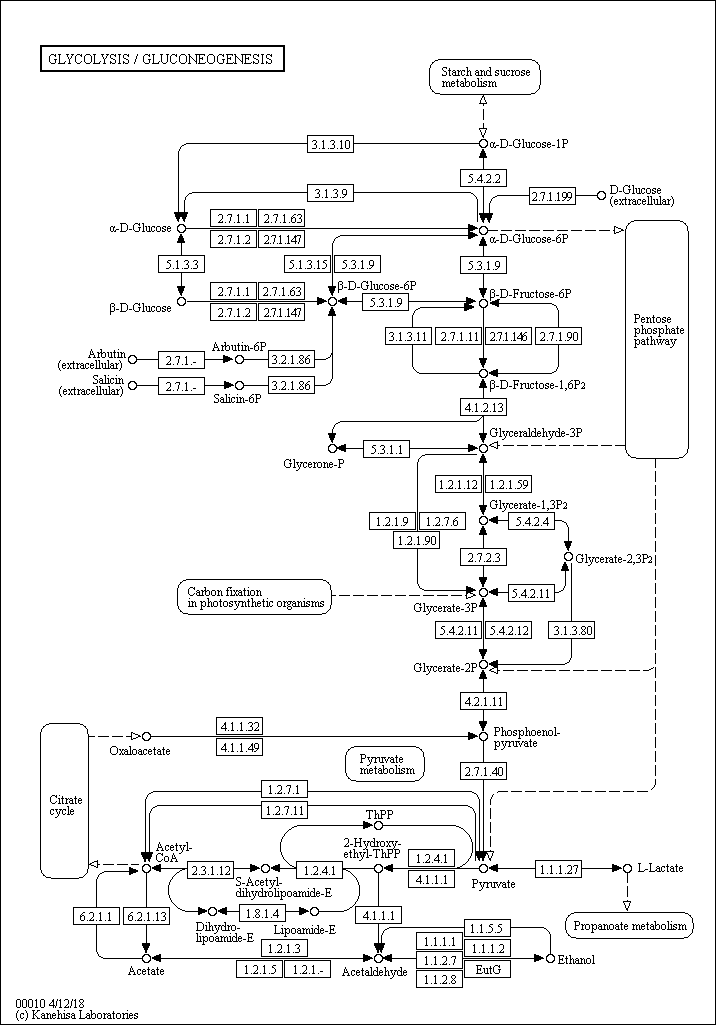
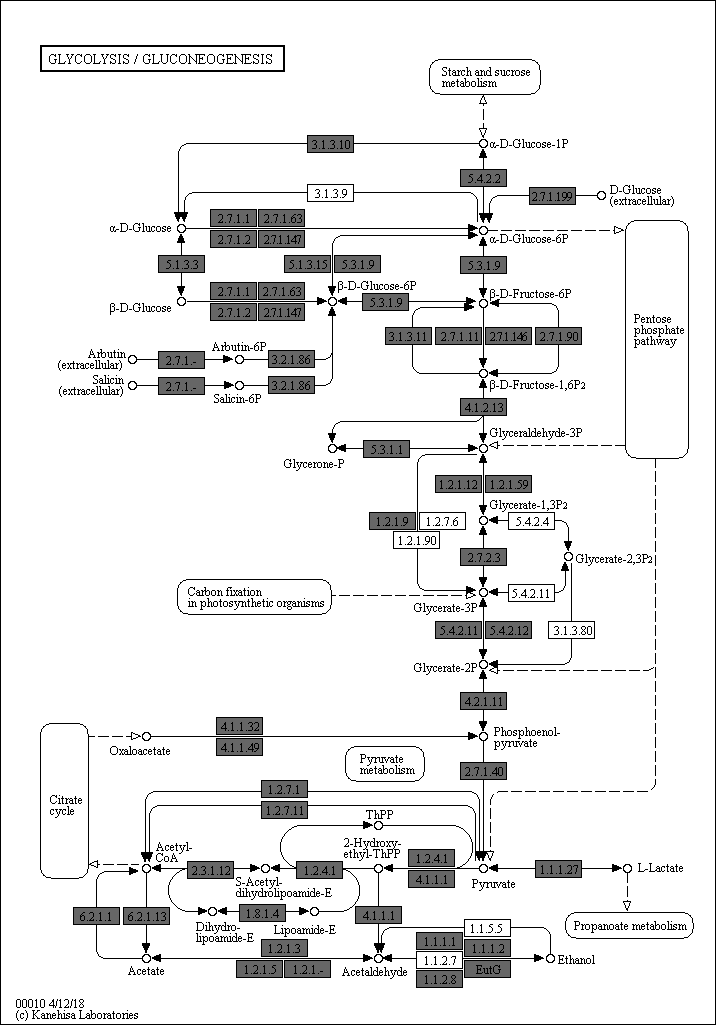
color map

diff --git a/colorMap.py b/colorMap.py
@@ -5,18 +5,55 @@ import seaborn as sns
 import pandas as pd
 import numpy as np
 import re
-from PIL import Image
+from PIL import Image, ImageFont, ImageDraw
 from pyutils.colors import rgb2hex, hex2color
-import pdb
+from pyutils.tools import dupply, time_counter
+from pyutils.read import read_abundance
 
 
 class ColorMap(object):
-    """docstring for ColorMap"""
+    """
+    This class is used to color the KEGG map according to LEfSe analysis results.
 
-    def __init__(self, ko_lefse_lda, map_abundance_table=False, ko_abundance_table=False, mapping_file=False, category=False, out_dir='./'):
+    arguments:
+
+        ko_lefse_lda: LEfSe analysis results of KOs
+
+        ko_abundance_table: the abundance_table of KOs, Optional, if not passed, there will not be text in maps.
+
+        map_abundance_table: map abundance table, optional, if not passed, method plot_all can not be used, still can use method plot_map.
+
+        mapping_file: mapping file, optional, if not passed the color will be auto-asigned.
+
+        category: name of category, optional, if not passed the color will be auto-asigned.
+
+        prefix: prefix of out pngs, optional.
+
+        out_dir: where to store the results, optional.
+
+    Sample usage:
+        First open the python3 command line.
+        to plot all maps in map_abundance_table
+	(base) cheng@ps-Super-Server [~/pipelines/MetaGenome]$python3 
+
+            >>>from colorMap import ColorMap
+            >>>c=ColorMap("KO_Group1_lefse_LDA2.LDA.txt","All.Function.abundance.KeepID.KO.txt","All.Function.abundance.KeepID.Pathway.txt",out_dir="map_test")
+            >>>c.plot_all()
+
+        to plot a single map:
+
+            >>>from colorMap import ColorMap
+            >>>c=ColorMap("KO_Group1_lefse_LDA2.LDA.txt")
+            >>>c.plot_map("map00010")
+
+
+    """
+
+    def __init__(self, ko_lefse_lda, ko_abundance_table=False, map_abundance_table=False, mapping_file=False, category=False, prefix="", out_dir='./'):
         self.out_dir = os.path.abspath(out_dir) + '/'
         if not os.path.exists(self.out_dir):
             os.makedirs(self.out_dir)
+        self.out_dir += prefix
         self._base_dir = os.path.dirname(__file__) + '/'
         with open(self._base_dir + "pipconfig/path.conf") as f:
             self.path = json.load(f)
@@ -27,29 +64,63 @@ class ColorMap(object):
             mapping_file and category) else {gp: color for gp, color in zip(list(set(self.sig_gps[self.sig_gps.notna()])), sns.color_palette('Accent', 12).as_hex())}
         self.kos_colors = {ko: self.gps_colors[self.sig_gps[ko]]
                            if not self.sig_gps[ko] is np.nan else "#666666" for ko in self.sig_gps.index}
+        self.ko_abundance_table = ko_abundance_table
+        self.map_abundance_table = map_abundance_table
 
-    def cac_map_colors(self, mapid):
+    def __cac_map_colors__(self, mapid):
         self.current_mapid = mapid
         self.color_data = []
+        self.coord_data = []
         with open("{}/{}.conf".format(self.path['map_conf'], self.current_mapid), 'r') as f:
             for line in f:
                 if line.startswith('rect'):
                     li = line.split('\t')
-                    coordinate = re.findall('\d+', li[0])
+                    coordinate = [int(d) for d in re.findall('\d+', li[0])]
                     kos = re.findall('K\d+', li[1])
                     colors = [self.kos_colors[ko] for ko in kos if ko in self.kos_colors.keys()]
                     if not len(colors) == 0:
+                        self.coord_data.append([coordinate, kos])
                         colors = list(set([c for c in colors if not c == "#666666"]))
                         color = colors[0] if len(colors) == 1 else "#666666"
                         self.color_data.append([coordinate, color])
 
-    @staticmethod
-    def apply(array, func, **kargs):
-        """This func will conside only the first and second dimension of array"""
-        shape = array.shape
-        return np.array([[func(array[i, j], **kargs) for j in range(shape[1])] for i in range(shape[0])])
-
-    def color_map(self):
+    def __color_map__(self):
         plot = np.array(Image.open("{}/{}.png".format(self.path['map_conf'], self.current_mapid)).convert("RGB"))
-        pdb.set_trace()
-        plot = ColorMap.apply(plot, rgb2hex)
+        plot = dupply(plot, rgb2hex)
+        for coordinate, color in self.color_data:
+            x1, y1, x2, y2 = coordinate
+            plot[y1:y2, x1:x2][plot[y1:y2, x1:x2] == '#ffffff'] = color
+        plot = np.uint8(dupply(plot, hex2color))
+        self.plot = Image.fromarray(plot)
+
+    def __cac_map_text__(self):
+        abundance = read_abundance(self.ko_abundance_table, return_sum=1)
+        assert abundance.shape[0] == self.sig_gps.shape[0]
+        # pdb.set_trace()
+        self.text_data = [[coordinate, "({},{})".format(str(kos[0]), str(
+            int(np.ceil(sum([abundance[ko] for ko in kos if ko in abundance.index])))))] for coordinate, kos in self.coord_data]
+
+    def __text_map__(self):
+        for coordinate, text in self.text_data:
+            x1, y1, x2, y2 = coordinate
+            font = ImageFont.truetype('arial.ttf', 9)
+            draw = ImageDraw.Draw(self.plot)
+            # pdb.set_trace()
+            draw.text((x1 - 9, y2 + 1), text, font=font, fill="#FF0000")
+
+    @time_counter
+    def plot_map(self, mapid):
+        self.__cac_map_colors__(mapid)
+        self.__color_map__()
+        if self.ko_abundance_table:
+            self.__cac_map_text__()
+            self.__text_map__()
+        self.plot.save("{}{}.png".format(self.out_dir, mapid))
+
+    def plot_all(self):
+        if self.map_abundance_table:
+            for mapid in read_abundance(self.map_abundance_table).index:
+                print(mapid)
+                self.plot_map(mapid)
+        else:
+            print("Please pass a map id table(map_abundance_table)")

diff --git a/pyutils/tools.py b/pyutils/tools.py
@@ -2,6 +2,22 @@ import numpy as np
 import re
 import os
 import pandas as pd
+import time
+
+
+def dupply(array, func, **kwargs):
+    """This func will conside only the first and second dimension of array"""
+    shape = array.shape
+    return np.array([[func(array[i, j], **kwargs) for j in range(shape[1])] for i in range(shape[0])])
+
+
+def time_counter(func):
+    def wrapper(*args, **kwargs):
+        t1 = time.time()
+        out = func(*args, **kwargs)
+        print("Time used: {}".format(str(time.time() - t1)))
+        return out
+    return wrapper
 
 
 def generate_span(number_list: []) -> []:

diff --git a/pyutils/colors.py b/pyutils/colors.py
@@ -1,5 +1,4 @@
 import re
-import string
 
 
 def hex2color(hex_color, saturability=255):
